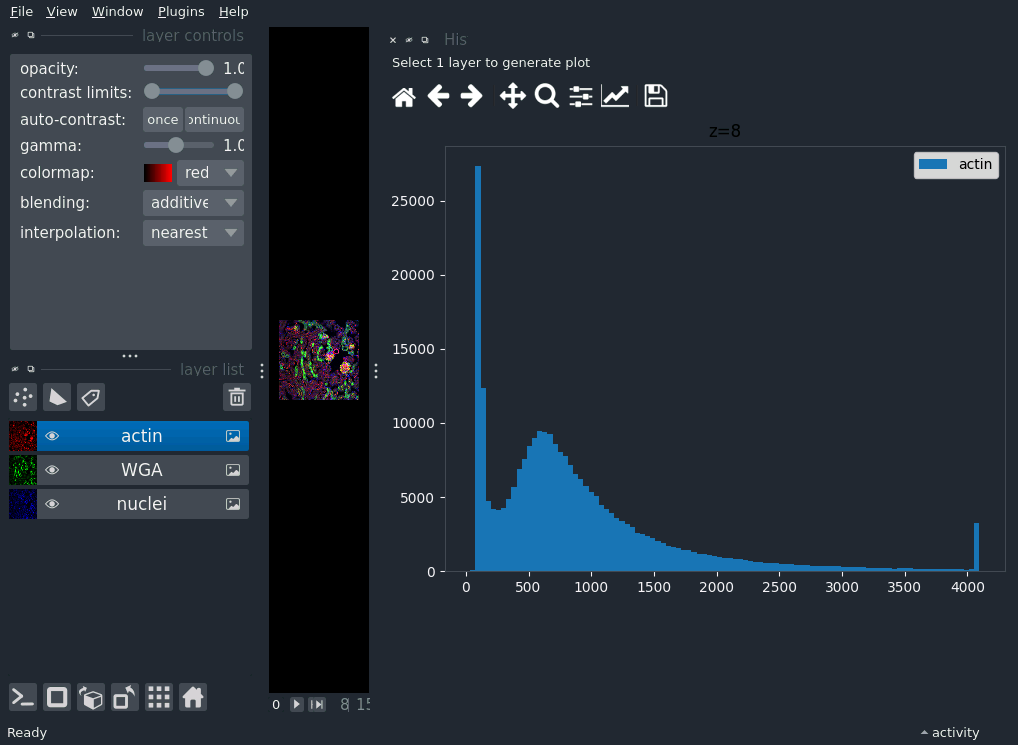
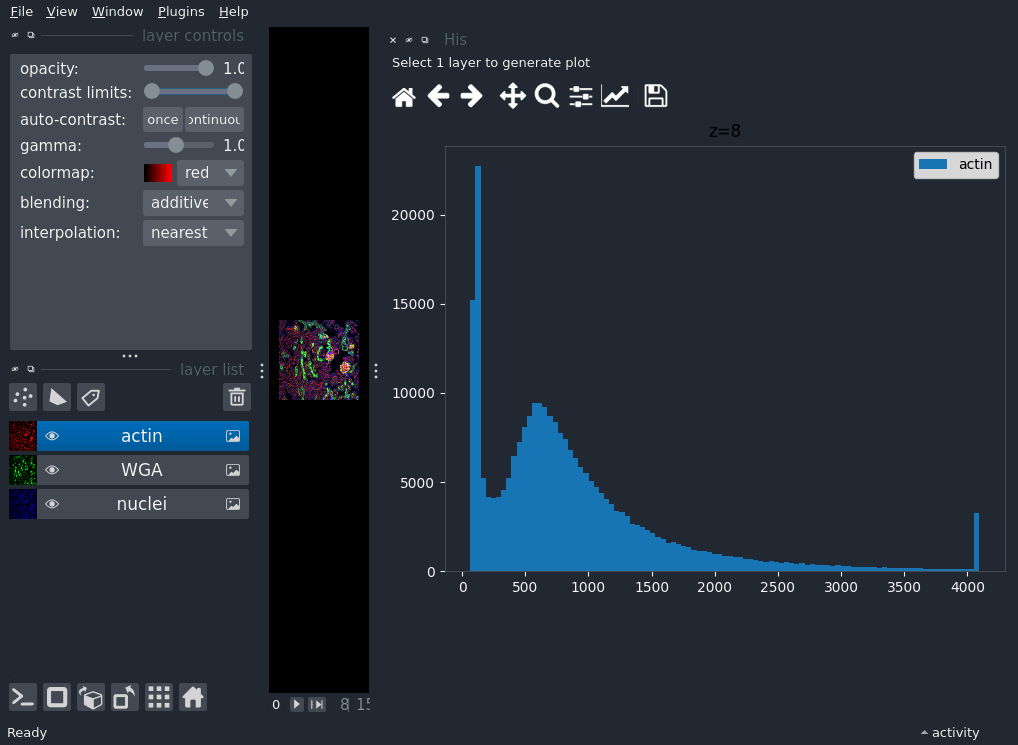
Deploying to gh-pages from @ matplotlib/napari-matplotlib@6d9310cab50b567a6bfb436e2d66e8325292617e 🚀

diff --git a/searchindex.js b/searchindex.js
@@ -1,1 +1,1 @@
-Search.setIndex({docnames:["api","api/napari_matplotlib.FeaturesScatterWidget","api/napari_matplotlib.HistogramWidget","api/napari_matplotlib.ScatterBaseWidget","api/napari_matplotlib.ScatterWidget","api/napari_matplotlib.SliceWidget","api/napari_matplotlib.base.BaseNapariMPLWidget","api/napari_matplotlib.base.NapariMPLWidget","api/napari_matplotlib.base.SingleAxesWidget","auto_examples/features_scatter","auto_examples/histogram","auto_examples/index","auto_examples/scatter","auto_examples/sg_execution_times","auto_examples/slice","changelog","index","third_party","user_guide"],envversion:{"sphinx.domains.c":2,"sphinx.domains.changeset":1,"sphinx.domains.citation":1,"sphinx.domains.cpp":5,"sphinx.domains.index":1,"sphinx.domains.javascript":2,"sphinx.domains.math":2,"sphinx.domains.python":3,"sphinx.domains.rst":2,"sphinx.domains.std":2,"sphinx.ext.intersphinx":1,sphinx:56},filenames:["api.rst","api/napari_matplotlib.FeaturesScatterWidget.rst","api/napari_matplotlib.HistogramWidget.rst","api/napari_matplotlib.ScatterBaseWidget.rst","api/napari_matplotlib.ScatterWidget.rst","api/napari_matplotlib.SliceWidget.rst","api/napari_matplotlib.base.BaseNapariMPLWidget.rst","api/napari_matplotlib.base.NapariMPLWidget.rst","api/napari_matplotlib.base.SingleAxesWidget.rst","auto_examples/features_scatter.rst","auto_examples/histogram.rst","auto_examples/index.rst","auto_examples/scatter.rst","auto_examples/sg_execution_times.rst","auto_examples/slice.rst","changelog.rst","index.rst","third_party.rst","user_guide.rst"],objects:{"":[[0,0,0,"-","napari_matplotlib"]],"napari_matplotlib.FeaturesScatterWidget":[[1,2,1,"","draw"],[1,3,1,"","input_layer_types"],[1,3,1,"","n_layers_input"],[1,2,1,"","on_update_layers"],[1,3,1,"","x_axis_key"],[1,3,1,"","y_axis_key"]],"napari_matplotlib.HistogramWidget":[[2,2,1,"","draw"],[2,3,1,"","input_layer_types"],[2,3,1,"","n_layers_input"]],"napari_matplotlib.ScatterBaseWidget":[[3,2,1,"","draw"]],"napari_matplotlib.ScatterWidget":[[4,3,1,"","input_layer_types"],[4,3,1,"","n_layers_input"]],"napari_matplotlib.SliceWidget":[[5,3,1,"","current_dim"],[5,3,1,"","current_dim_index"],[5,2,1,"","draw"],[5,3,1,"","input_layer_types"],[5,3,1,"","n_layers_input"]],"napari_matplotlib.base":[[6,1,1,"","BaseNapariMPLWidget"],[7,1,1,"","NapariMPLWidget"],[8,1,1,"","SingleAxesWidget"]],"napari_matplotlib.base.BaseNapariMPLWidget":[[6,2,1,"","add_single_axes"],[6,3,1,"","figure"],[6,3,1,"","mpl_style_sheet_path"]],"napari_matplotlib.base.NapariMPLWidget":[[7,2,1,"","clear"],[7,3,1,"","current_z"],[7,2,1,"","draw"],[7,3,1,"","input_layer_types"],[7,3,1,"","n_layers_input"],[7,3,1,"","n_selected_layers"],[7,2,1,"","on_update_layers"]],"napari_matplotlib.base.SingleAxesWidget":[[8,2,1,"","clear"]],napari_matplotlib:[[1,1,1,"","FeaturesScatterWidget"],[2,1,1,"","HistogramWidget"],[3,1,1,"","ScatterBaseWidget"],[4,1,1,"","ScatterWidget"],[5,1,1,"","SliceWidget"],[0,0,0,"-","base"]]},objnames:{"0":["py","module","Python module"],"1":["py","class","Python class"],"2":["py","method","Python method"],"3":["py","attribute","Python attribute"]},objtypes:{"0":"py:module","1":"py:class","2":"py:method","3":"py:attribute"},terms:{"0":[9,10,12,13,14],"00":13,"01":13,"02":13,"034":[13,14],"06":13,"1":[1,2,5,9,10,14],"10":9,"100":9,"11":13,"17":15,"18":15,"189":[10,13],"1d":[5,11,13,16,18],"2":[4,9],"20":9,"21":12,"236":[9,13],"2cdc5ce89b334d28f06a58c9f0ca21aa6992a5ba":12,"2d":[4,15,18],"306":13,"4":15,"50":9,"500":4,"6":12,"70":9,"848":[12,13],"class":[1,2,3,4,5,6,7,8,17],"default":[15,17],"do":17,"import":[9,10,12,14,15,17],"new":17,"short":17,"super":17,"switch":18,A:[6,16],As:[16,18],By:17,If:[4,15,17],In:[7,8],It:6,The:[6,7,15,17,18],These:18,To:[7,18],__init__:17,__main__:[9,10,12,14],__name__:[9,10,12,14],access:[6,17],ad:[15,17],add:[6,17],add_label:9,add_plugin_dock_widget:[9,10,12,14],add_point:9,add_single_ax:[6,17],addit:[7,8,17],addwidget:17,advantag:7,affect:15,against:[3,18],all:11,along:5,alongsid:17,also:[6,7,17],an:[6,15,16,18],ani:[6,7,15,17],annot:15,api:15,ar:[4,6,7,15,17,18],area:9,associ:[6,15],attribut:[1,2,4,5,6,7,17,18],auto_exampl:13,auto_examples_jupyt:11,auto_examples_python:11,automat:[7,17],avail:18,avoid:4,ax:[2,5,6,7,8,15,17],axi:[1,15],background:15,base:[1,2,3,4,5,6,7,8,15,17],basenaparimplwidget:[0,7],becaus:6,been:15,both:[6,7],bottom:18,cach:12,call:[1,7,17,18],callback:[7,8],can:[7,15,17,18],canva:[6,7,15],categori:18,chang:[1,7,17],child:6,clear:[2,5,7,8,17],code:[9,10,11,12,14,15],colour:15,com:12,complet:15,comput:18,configur:18,contain:[6,7,15,18],creat:[6,7,9],current:[1,2,3,5,7,18],current_dim:5,current_dim_index:5,current_z:7,custom:[15,17,18],customis:[6,15,17],data:[1,4,9,12,18],dataset:3,def:17,deriv:7,design:[16,17,18],desir:18,develop:17,differ:[6,16,18],dimens:5,directli:[0,18],directori:18,displai:[2,4],document:[0,1,2,3,4,5,6,7,8],doe:15,down:18,download:[9,10,11,12,14],draw:[1,2,3,5,7,17],drawn:7,drop:18,dtype:9,e:7,each:[3,15,16,18],either:17,element:17,end:[9,10,12,14],exampl:[9,10,11,12,14,16,17,18],execut:13,featur:[1,11,13],feature_0:9,feature_1:9,feature_2:9,feature_table_1:9,features_scatt:[9,13],featuresscatt:9,featuresscatterwidget:0,figur:[6,7,15,17,18],figurecanva:6,file:[12,13],fluoresc:12,follow:17,found:[17,18],from:[1,9,12,16,17],full:[9,10,12,14],funciton:15,futur:15,g:7,galleri:[9,10,12,14],gener:[9,10,11,12,14,16,18],get_configdir:18,gitlab:12,given:5,go:[9,10,12,14,17],guid:15,ha:[15,18],hand:18,handl:7,have:15,help:[6,7],here:17,histogram:[0,2,4,11,13,15,16,18],histogramwidget:[0,16,18],home:12,how:15,http:12,icon:15,imag:[2,4,5,9,12,16,18],implement:[6,7,15],index:[5,9],indic:15,individu:18,inform:15,inherit:17,input:[1,2,4,5,7,17],input_layer_typ:[1,2,4,5,7,17],insid:17,instead:[4,15],integ:15,intend:[7,15],interact:0,interest:15,interfac:0,intern:0,interv:[1,2,4,5,7],ipynb:[9,10,12,14],issu:15,jupyt:[9,10,11,12,14,15],just:[0,15],kei:1,kidnei:[10,12,14],label:[1,9,15],label_imag:9,larg:18,later:6,layer:[1,2,3,4,5,6,7,15,16],layout:[6,17],leav:15,left:18,line:[15,18],list:[7,18],locat:[15,18],lognorm:15,longer:15,maco:15,mai:6,main:[6,7,17],make:9,mani:[4,15],map:[16,18],match:[6,17],matplotlib:[0,6,7,9,10,12,14,15,17,18],maximum:15,mb:13,mean:17,measur:9,menu:18,method:[1,2,3,5,6,7,8,17],minut:[9,10,12,14],more:[4,15,16,18],most:0,move:15,mpl_style_sheet_path:6,mplstyle:18,mplwidget:15,myplugin:17,n_layers_input:[1,2,4,5,7,17],n_point:9,n_selected_lay:7,napari:[0,1,2,3,4,5,6,7,8,9,10,12,14,15,18],napari_matplotlib:[1,2,3,4,5,6,7,8,17],napari_view:[1,2,3,4,5,6,7,8,17],naparimplwidget:[0,6,8,15,17],ndarrai:9,need:[0,15],none:[1,2,3,4,5,6,7,8,17],normal:15,notebook:[9,10,11,12,14,15],noth:17,now:15,np:9,npt:9,number:[1,2,4,5,7,16,18],numpi:9,on_update_lay:[1,7,15,17],one:[16,18],onli:15,op:7,open:[15,18],open_sampl:[10,12,14],option:[1,2,3,4,5,6,7,8,15],other:[3,18],overrid:[7,17],overriden:17,parent:[1,2,3,4,5,6,7,8,17],path:6,perimet:9,philosophi:15,pin:15,pleas:15,plot:[0,4,5,11,13,15,16,17],plot_widget:17,plugin:[16,18],plugin_nam:[9,10,12,14],point:[1,4,9,18],points_data:9,points_featur:9,previous:7,privat:15,properti:[9,17],provid:[16,17],put:18,py:[9,10,12,13,14],pyqt5:[0,1,2,3,4,5,6,7,8],python:[9,10,11,12,14],qobject:0,qpaintdevic:0,qtcore:0,qtgui:0,qtpy:17,qtwidget:[0,1,2,3,4,5,6,7,8,17],qwidget:[0,1,2,3,4,5,6,7,8,17],random:9,raw:12,re:[7,17],readi:17,recommend:17,regionprops_t:9,remov:15,render:15,replac:15,requir:18,respect:15,respons:6,run:[9,10,12,14],runner:12,s:[17,18],same:15,save:[6,18],scale:15,scatter:[0,1,3,4,11,13,15,18],scatterbasewidget:[0,1,4],scatterwidget:0,scikit:12,script:[9,10,12,14],second:[9,10,12,14],section:0,see:15,select:[1,2,3,5,7,15,17,18],self:[1,17],set:[6,8,15,17],setup:17,shape:[1,4],sheet:[6,15,18],should:7,shouldn:0,side:18,similarli:4,simplewrapp:0,sinc:15,singl:[6,8,17,18],singleaxeswidget:[0,2,3,5],sip:0,size:15,skimag:9,slice:[0,2,5,11,13,15,18],slicewidget:0,someth:[15,17],sourc:[9,10,11,12,14],space:15,specifi:17,sphinx:[9,10,11,12,14],split:18,step:[7,17],still:15,store:[1,18],style:[6,15,18],sub:7,subplot:6,summari:[1,2,3,4,5,6,7,8],t:0,tabl:18,take:7,taken:[1,2,4,5,7,17],test:[9,15],text:15,than:4,theme:[6,15,17],thi:[0,6,7,8,15,16,17,18],though:0,throughout:15,tick:15,tif:12,time:[9,10,12,14],tissu:12,too:4,toolbar:[6,7,15,17],total:[9,10,12,13,14],track:1,transpar:15,tupl:[1,2,4,5,7],turn:17,two:[1,3,4,18],type:[1,2,4,5,7,9,15],uint16:9,under:18,underscor:15,up:[8,17],updat:7,update_lay:[1,15],us:[7,15,16,17,18],user:[0,15],valid:7,vari:18,variabl:17,vector:1,version:15,viewer:[1,2,3,4,5,6,7,8,9,10,12,14,15,17],visual:6,wai:17,want:6,when:[1,7,15,17],which:[6,7,17],widget:[1,3,6,7,9,15,16,17,18],widget_nam:[9,10,12,14],window:[6,9,10,12,14,15,17,18],within:17,without:[15,17],work:[6,7,15],would:15,wrapper:0,x:[1,15],x_axis_kei:1,y:1,y_axis_kei:1,yet:15,you:[15,17],your:17,z:[7,17],zero:9,zip:11},titles:["API reference","FeaturesScatterWidget","HistogramWidget","ScatterBaseWidget","ScatterWidget","SliceWidget","BaseNapariMPLWidget","NapariMPLWidget","SingleAxesWidget","Scattering features","Histograms","Gallery","Scatter plots","Computation times","1D slices","Changelog","napari-matplotlib","Third-party plugins","User guide"],titleterms:{"0":15,"1":15,"1d":14,"class":0,"new":15,api:0,base:0,basenaparimplwidget:6,bug:15,chang:15,changelog:15,comput:13,customis:18,diagram:0,featur:[9,15,18],featuresscatterwidget:1,fix:15,galleri:11,guid:18,histogram:10,histogramwidget:2,improv:15,inherit:0,layer:[17,18],matplotlib:16,modul:0,napari:[16,17],napari_matplotlib:0,naparimplwidget:7,number:17,other:15,overview:18,packag:0,parti:17,plot:[12,18],plugin:17,refer:0,scatter:[9,12],scatterbasewidget:3,scatterwidget:4,singleaxeswidget:8,slice:14,slicewidget:5,third:17,time:13,type:17,user:18,valid:17,visual:15,work:17}})
+Search.setIndex({docnames:["api","api/napari_matplotlib.FeaturesScatterWidget","api/napari_matplotlib.HistogramWidget","api/napari_matplotlib.ScatterBaseWidget","api/napari_matplotlib.ScatterWidget","api/napari_matplotlib.SliceWidget","api/napari_matplotlib.base.BaseNapariMPLWidget","api/napari_matplotlib.base.NapariMPLWidget","api/napari_matplotlib.base.SingleAxesWidget","auto_examples/features_scatter","auto_examples/histogram","auto_examples/index","auto_examples/scatter","auto_examples/sg_execution_times","auto_examples/slice","changelog","index","third_party","user_guide"],envversion:{"sphinx.domains.c":2,"sphinx.domains.changeset":1,"sphinx.domains.citation":1,"sphinx.domains.cpp":5,"sphinx.domains.index":1,"sphinx.domains.javascript":2,"sphinx.domains.math":2,"sphinx.domains.python":3,"sphinx.domains.rst":2,"sphinx.domains.std":2,"sphinx.ext.intersphinx":1,sphinx:56},filenames:["api.rst","api/napari_matplotlib.FeaturesScatterWidget.rst","api/napari_matplotlib.HistogramWidget.rst","api/napari_matplotlib.ScatterBaseWidget.rst","api/napari_matplotlib.ScatterWidget.rst","api/napari_matplotlib.SliceWidget.rst","api/napari_matplotlib.base.BaseNapariMPLWidget.rst","api/napari_matplotlib.base.NapariMPLWidget.rst","api/napari_matplotlib.base.SingleAxesWidget.rst","auto_examples/features_scatter.rst","auto_examples/histogram.rst","auto_examples/index.rst","auto_examples/scatter.rst","auto_examples/sg_execution_times.rst","auto_examples/slice.rst","changelog.rst","index.rst","third_party.rst","user_guide.rst"],objects:{"":[[0,0,0,"-","napari_matplotlib"]],"napari_matplotlib.FeaturesScatterWidget":[[1,2,1,"","draw"],[1,3,1,"","input_layer_types"],[1,3,1,"","n_layers_input"],[1,2,1,"","on_update_layers"],[1,3,1,"","x_axis_key"],[1,3,1,"","y_axis_key"]],"napari_matplotlib.HistogramWidget":[[2,2,1,"","draw"],[2,3,1,"","input_layer_types"],[2,3,1,"","n_layers_input"]],"napari_matplotlib.ScatterBaseWidget":[[3,2,1,"","draw"]],"napari_matplotlib.ScatterWidget":[[4,3,1,"","input_layer_types"],[4,3,1,"","n_layers_input"]],"napari_matplotlib.SliceWidget":[[5,3,1,"","current_dim"],[5,3,1,"","current_dim_index"],[5,2,1,"","draw"],[5,3,1,"","input_layer_types"],[5,3,1,"","n_layers_input"]],"napari_matplotlib.base":[[6,1,1,"","BaseNapariMPLWidget"],[7,1,1,"","NapariMPLWidget"],[8,1,1,"","SingleAxesWidget"]],"napari_matplotlib.base.BaseNapariMPLWidget":[[6,2,1,"","add_single_axes"],[6,3,1,"","figure"],[6,3,1,"","mpl_style_sheet_path"]],"napari_matplotlib.base.NapariMPLWidget":[[7,2,1,"","clear"],[7,3,1,"","current_z"],[7,2,1,"","draw"],[7,3,1,"","input_layer_types"],[7,3,1,"","n_layers_input"],[7,3,1,"","n_selected_layers"],[7,2,1,"","on_update_layers"]],"napari_matplotlib.base.SingleAxesWidget":[[8,2,1,"","clear"]],napari_matplotlib:[[1,1,1,"","FeaturesScatterWidget"],[2,1,1,"","HistogramWidget"],[3,1,1,"","ScatterBaseWidget"],[4,1,1,"","ScatterWidget"],[5,1,1,"","SliceWidget"],[0,0,0,"-","base"]]},objnames:{"0":["py","module","Python module"],"1":["py","class","Python class"],"2":["py","method","Python method"],"3":["py","attribute","Python attribute"]},objtypes:{"0":"py:module","1":"py:class","2":"py:method","3":"py:attribute"},terms:{"0":[9,10,12,13,14],"00":13,"01":13,"02":13,"07":13,"079":[12,13],"087":[13,14],"1":[1,2,5,9,10,14],"10":9,"100":9,"11":13,"17":15,"18":15,"1d":[5,11,13,16,18],"2":[4,9],"20":9,"21":12,"225":[10,13],"2cdc5ce89b334d28f06a58c9f0ca21aa6992a5ba":12,"2d":[4,15,18],"349":[9,13],"4":15,"50":9,"500":4,"7":12,"70":9,"740":13,"class":[1,2,3,4,5,6,7,8,17],"default":[15,17],"do":17,"import":[9,10,12,14,15,17],"new":17,"short":17,"super":17,"switch":18,A:[6,15,16],As:[16,18],By:17,If:[4,15,17],In:[7,8],It:6,The:[6,7,15,17,18],These:18,To:[7,18],__init__:17,__main__:[9,10,12,14],__name__:[9,10,12,14],abov:15,access:[6,17],ad:[15,17],add:[6,17],add_label:9,add_plugin_dock_widget:[9,10,12,14],add_point:9,add_single_ax:[6,17],addit:[7,8,17],addwidget:17,advantag:7,affect:15,against:[3,18],all:11,along:5,alongsid:17,also:[6,7,17],an:[6,15,16,18],ani:[6,7,15,17],annot:15,api:15,ar:[4,6,7,15,17,18],area:9,associ:[6,15],attribut:[1,2,4,5,6,7,17,18],auto_exampl:13,auto_examples_jupyt:11,auto_examples_python:11,automat:[7,17],avail:18,avoid:4,ax:[2,5,6,7,8,15,17],axi:[1,15],background:15,base:[1,2,3,4,5,6,7,8,15,17],basenaparimplwidget:[0,7],becaus:6,been:15,being:15,bin:15,both:[6,7],bottom:18,cach:12,caclualt:15,call:[1,7,17,18],callback:[7,8],can:[7,15,17,18],canva:[6,7,15],categori:18,chang:[1,7,17],child:6,clear:[2,5,7,8,17],code:[9,10,11,12,14,15],colour:15,com:12,compat:15,complet:15,comput:18,configur:18,contain:[6,7,15,18],creat:[6,7,9],current:[1,2,3,5,7,15,18],current_dim:5,current_dim_index:5,current_z:7,custom:[15,17,18],customis:[6,15,17],data:[1,4,9,12,18],dataset:[3,15],def:17,deriv:7,design:[16,17,18],desir:18,develop:17,differ:[6,16,18],dimens:5,directli:[0,18],directori:18,displai:[2,4],document:[0,1,2,3,4,5,6,7,8],doe:15,down:18,download:[9,10,11,12,14],draw:[1,2,3,5,7,17],drawn:7,drop:18,dtype:9,e:7,each:[3,15,16,18],either:17,element:17,end:[9,10,12,14],exampl:[9,10,11,12,14,16,17,18],execut:13,featur:[1,11,13],feature_0:9,feature_1:9,feature_2:9,feature_table_1:9,features_scatt:[9,13],featuresscatt:9,featuresscatterwidget:0,figur:[6,7,15,17,18],figurecanva:6,file:[12,13],fluoresc:12,follow:17,found:[17,18],from:[1,9,12,15,16,17],full:[9,10,12,14,15],funciton:15,futur:15,g:7,galleri:[9,10,12,14],gener:[9,10,11,12,14,16,18],get_configdir:18,gitlab:12,given:5,go:[9,10,12,14,17],guid:15,ha:[15,18],hand:18,handl:7,have:15,help:[6,7],here:17,histogram:[0,2,4,11,13,15,16,18],histogramwidget:[0,15,16,18],home:12,how:15,http:12,icon:15,imag:[2,4,5,9,12,16,18],implement:[6,7,15],index:[5,9],indic:15,individu:18,inform:15,inherit:17,input:[1,2,4,5,7,17],input_layer_typ:[1,2,4,5,7,17],insid:17,instead:[4,15],integ:15,intend:[7,15],interact:0,interest:15,interfac:0,intern:0,interv:[1,2,4,5,7],ipynb:[9,10,12,14],issu:15,jupyt:[9,10,11,12,14,15],just:[0,15],kei:1,kidnei:[10,12,14],label:[1,9,15],label_imag:9,larg:18,later:6,layer:[1,2,3,4,5,6,7,15,16],layout:[6,17],leav:15,left:18,limit:15,line:[15,18],list:[7,18],load:15,locat:[15,18],lognorm:15,longer:15,maco:15,mai:6,main:[6,7,17],make:9,mani:[4,15],map:[16,18],match:[6,17],matplotlib:[0,6,7,9,10,12,14,15,17,18],maximum:15,mb:13,mean:17,measur:9,memori:15,menu:18,method:[1,2,3,5,6,7,8,17],minut:[9,10,12,14],more:[4,15,16,18],most:0,move:15,mpl_style_sheet_path:6,mplstyle:18,mplwidget:15,myplugin:17,n_layers_input:[1,2,4,5,7,17],n_point:9,n_selected_lay:7,napari:[0,1,2,3,4,5,6,7,8,9,10,12,14,15,18],napari_matplotlib:[1,2,3,4,5,6,7,8,17],napari_view:[1,2,3,4,5,6,7,8,17],naparimplwidget:[0,6,8,15,17],ndarrai:9,need:[0,15],none:[1,2,3,4,5,6,7,8,17],normal:15,notebook:[9,10,11,12,14,15],noth:17,now:15,np:9,npt:9,number:[1,2,4,5,7,16,18],numpi:9,on_update_lay:[1,7,15,17],one:[16,18],onli:15,op:7,open:[15,18],open_sampl:[10,12,14],option:[1,2,3,4,5,6,7,8,15],other:[3,18],overrid:[7,17],overriden:17,parent:[1,2,3,4,5,6,7,8,17],path:6,perimet:9,philosophi:15,pin:15,pleas:15,plot:[0,4,5,11,13,15,16,17],plot_widget:17,plugin:[16,18],plugin_nam:[9,10,12,14],point:[1,4,9,18],points_data:9,points_featur:9,previous:7,privat:15,properti:[9,17],provid:[16,17],put:18,py:[9,10,12,13,14],pyqt5:[0,1,2,3,4,5,6,7,8],python:[9,10,11,12,14],qobject:0,qpaintdevic:0,qtcore:0,qtgui:0,qtpy:17,qtwidget:[0,1,2,3,4,5,6,7,8,17],qwidget:[0,1,2,3,4,5,6,7,8,17],random:9,raw:12,re:[7,17],read:15,readi:17,recommend:17,regionprops_t:9,remov:15,render:15,replac:15,requir:18,respect:15,respons:6,result:15,run:[9,10,12,14],runner:12,s:[17,18],same:15,save:[6,18],scale:15,scatter:[0,1,3,4,11,13,15,18],scatterbasewidget:[0,1,4],scatterwidget:0,scikit:12,script:[9,10,12,14],second:[9,10,12,14],section:0,see:15,select:[1,2,3,5,7,15,17,18],self:[1,17],set:[6,8,15,17],setup:17,shape:[1,4],sheet:[6,15,18],should:7,shouldn:0,side:18,similarli:4,simplewrapp:0,sinc:15,singl:[6,8,17,18],singleaxeswidget:[0,2,3,5],sip:0,size:15,skimag:9,slice:[0,2,5,11,13,15,18],slicewidget:0,someth:[15,17],sourc:[9,10,11,12,14],space:15,specifi:17,sphinx:[9,10,11,12,14],split:18,step:[7,17],still:15,store:[1,18],style:[6,15,18],sub:7,subplot:6,summari:[1,2,3,4,5,6,7,8],t:0,tabl:18,take:7,taken:[1,2,4,5,7,17],test:[9,15],text:15,than:4,theme:[6,15,17],thi:[0,6,7,8,15,16,17,18],though:0,throughout:15,tick:15,tif:12,time:[9,10,12,14],tissu:12,too:4,toolbar:[6,7,15,17],total:[9,10,12,13,14],track:1,transpar:15,tupl:[1,2,4,5,7],turn:17,two:[1,3,4,18],type:[1,2,4,5,7,9,15],uint16:9,under:18,underscor:15,up:[8,17],updat:7,update_lay:[1,15],us:[7,15,16,17,18],user:[0,15],valid:7,vari:18,variabl:17,vector:1,version:15,viewer:[1,2,3,4,5,6,7,8,9,10,12,14,15,17],visual:6,wai:17,want:6,when:[1,7,15,17],which:[6,7,17],whole:15,widget:[1,3,6,7,9,15,16,17,18],widget_nam:[9,10,12,14],window:[6,9,10,12,14,15,17,18],within:17,without:[15,17],work:[6,7,15],would:15,wrapper:0,x:[1,15],x_axis_kei:1,y:1,y_axis_kei:1,yet:15,you:[15,17],your:17,z:[7,17],zero:9,zip:11},titles:["API reference","FeaturesScatterWidget","HistogramWidget","ScatterBaseWidget","ScatterWidget","SliceWidget","BaseNapariMPLWidget","NapariMPLWidget","SingleAxesWidget","Scattering features","Histograms","Gallery","Scatter plots","Computation times","1D slices","Changelog","napari-matplotlib","Third-party plugins","User guide"],titleterms:{"0":15,"1":15,"1d":14,"2":15,"class":0,"new":15,api:0,base:0,basenaparimplwidget:6,bug:15,chang:15,changelog:15,comput:13,customis:18,diagram:0,featur:[9,15,18],featuresscatterwidget:1,fix:15,galleri:11,guid:18,histogram:10,histogramwidget:2,improv:15,inherit:0,layer:[17,18],matplotlib:16,modul:0,napari:[16,17],napari_matplotlib:0,naparimplwidget:7,number:17,other:15,overview:18,packag:0,parti:17,plot:[12,18],plugin:17,refer:0,scatter:[9,12],scatterbasewidget:3,scatterwidget:4,singleaxeswidget:8,slice:14,slicewidget:5,third:17,time:13,type:17,user:18,valid:17,visual:15,work:17}})

diff --git a/changelog.html b/changelog.html
@@ -390,17 +390,35 @@ document.write(`
   <section id="changelog">
 <h1>Changelog<a class="headerlink" href="#changelog" title="Permalink to this headline">#</a></h1>
 <section id="id1">
-<h2>1.0.1<a class="headerlink" href="#id1" title="Permalink to this headline">#</a></h2>
+<h2>1.0.2<a class="headerlink" href="#id1" title="Permalink to this headline">#</a></h2>
 <section id="bug-fixes">
 <h3>Bug fixes<a class="headerlink" href="#bug-fixes" title="Permalink to this headline">#</a></h3>
+<ul class="simple">
+<li><p>A full dataset is no longer read into memory when using <code class="docutils literal notranslate"><span class="pre">HistogramWidget</span></code>.
+Only the current slice is loaded.</p></li>
+<li><p>Fixed compatibility with napari 0.4.18.</p></li>
+</ul>
+</section>
+<section id="changes">
+<h3>Changes<a class="headerlink" href="#changes" title="Permalink to this headline">#</a></h3>
+<ul class="simple">
+<li><p>Histogram bin limits are now caclualted from the slice being histogrammed, and
+not the whole dataset. This is as a result of the above bug fix.</p></li>
+</ul>
+</section>
+</section>
+<section id="id2">
+<h2>1.0.1<a class="headerlink" href="#id2" title="Permalink to this headline">#</a></h2>
+<section id="id3">
+<h3>Bug fixes<a class="headerlink" href="#id3" title="Permalink to this headline">#</a></h3>
 <ul class="simple">
 <li><p>Pinned that maximum version of <a class="reference external" href="https://napari.org/api/napari.html#module-napari" title="(in napari vdev)"><code class="xref py py-obj docutils literal notranslate"><span class="pre">napari</span></code></a> to 0.4.17, since <code class="docutils literal notranslate"><span class="pre">napari-matplotlib</span></code>
 does not yet work with <code class="docutils literal notranslate"><span class="pre">napari</span></code> 0.4.18.</p></li>
 </ul>
 </section>
 </section>
-<section id="id2">
-<h2>1.0.0<a class="headerlink" href="#id2" title="Permalink to this headline">#</a></h2>
+<section id="id4">
+<h2>1.0.0<a class="headerlink" href="#id4" title="Permalink to this headline">#</a></h2>
 <section id="new-features">
 <h3>New features<a class="headerlink" href="#new-features" title="Permalink to this headline">#</a></h3>
 <ul class="simple">
@@ -419,8 +437,8 @@ for the widget to plot something.</p></li>
 for more information.</p></li>
 </ul>
 </section>
-<section id="changes">
-<h3>Changes<a class="headerlink" href="#changes" title="Permalink to this headline">#</a></h3>
+<section id="id5">
+<h3>Changes<a class="headerlink" href="#id5" title="Permalink to this headline">#</a></h3>
 <ul class="simple">
 <li><p>The scatter widgets no longer use a LogNorm() for 2D histogram scaling.
 This is to move the widget in line with the philosophy of using Matplotlib default
@@ -435,8 +453,8 @@ funcitonality when layer selection is changed.</p></li>
 <li><p>The slice widget now only plots x-ticks at integer locations.</p></li>
 </ul>
 </section>
-<section id="id3">
-<h3>Bug fixes<a class="headerlink" href="#id3" title="Permalink to this headline">#</a></h3>
+<section id="id6">
+<h3>Bug fixes<a class="headerlink" href="#id6" title="Permalink to this headline">#</a></h3>
 <ul class="simple">
 <li><p>Importing <code class="docutils literal notranslate"><span class="pre">napari-matplotlib</span></code> no longer affects how plots are rendered in
 Jupyter notebooks.</p></li>
@@ -490,15 +508,20 @@ Jupyter notebooks.</p></li>
   </div>
   <nav class="bd-toc-nav page-toc">
     <ul class="visible nav section-nav flex-column">
-<li class="toc-h2 nav-item toc-entry"><a class="reference internal nav-link" href="#id1">1.0.1</a><ul class="nav section-nav flex-column">
+<li class="toc-h2 nav-item toc-entry"><a class="reference internal nav-link" href="#id1">1.0.2</a><ul class="nav section-nav flex-column">
 <li class="toc-h3 nav-item toc-entry"><a class="reference internal nav-link" href="#bug-fixes">Bug fixes</a></li>
+<li class="toc-h3 nav-item toc-entry"><a class="reference internal nav-link" href="#changes">Changes</a></li>
 </ul>
 </li>
-<li class="toc-h2 nav-item toc-entry"><a class="reference internal nav-link" href="#id2">1.0.0</a><ul class="nav section-nav flex-column">
+<li class="toc-h2 nav-item toc-entry"><a class="reference internal nav-link" href="#id2">1.0.1</a><ul class="nav section-nav flex-column">
+<li class="toc-h3 nav-item toc-entry"><a class="reference internal nav-link" href="#id3">Bug fixes</a></li>
+</ul>
+</li>
+<li class="toc-h2 nav-item toc-entry"><a class="reference internal nav-link" href="#id4">1.0.0</a><ul class="nav section-nav flex-column">
 <li class="toc-h3 nav-item toc-entry"><a class="reference internal nav-link" href="#new-features">New features</a></li>
 <li class="toc-h3 nav-item toc-entry"><a class="reference internal nav-link" href="#visual-improvements">Visual improvements</a></li>
-<li class="toc-h3 nav-item toc-entry"><a class="reference internal nav-link" href="#changes">Changes</a></li>
-<li class="toc-h3 nav-item toc-entry"><a class="reference internal nav-link" href="#id3">Bug fixes</a></li>
+<li class="toc-h3 nav-item toc-entry"><a class="reference internal nav-link" href="#id5">Changes</a></li>
+<li class="toc-h3 nav-item toc-entry"><a class="reference internal nav-link" href="#id6">Bug fixes</a></li>
 <li class="toc-h3 nav-item toc-entry"><a class="reference internal nav-link" href="#other">Other</a></li>
 </ul>
 </li>

diff --git a/auto_examples/sg_execution_times.html b/auto_examples/sg_execution_times.html
@@ -388,7 +388,7 @@ document.write(`
                   
   <section id="computation-times">
 <span id="sphx-glr-auto-examples-sg-execution-times"></span><h1>Computation times<a class="headerlink" href="#computation-times" title="Permalink to this headline">#</a></h1>
-<p><strong>00:11.306</strong> total execution time for <strong>auto_examples</strong> files:</p>
+<p><strong>00:11.740</strong> total execution time for <strong>auto_examples</strong> files:</p>
 <table class="table">
 <colgroup>
 <col style="width: 80%" />
@@ -397,19 +397,19 @@ document.write(`
 </colgroup>
 <tbody>
 <tr class="row-odd"><td><p><a class="reference internal" href="scatter.html#sphx-glr-auto-examples-scatter-py"><span class="std std-ref">Scatter plots</span></a> (<code class="docutils literal notranslate"><span class="pre">scatter.py</span></code>)</p></td>
-<td><p>00:06.848</p></td>
+<td><p>00:07.079</p></td>
 <td><p>0.0 MB</p></td>
 </tr>
 <tr class="row-even"><td><p><a class="reference internal" href="features_scatter.html#sphx-glr-auto-examples-features-scatter-py"><span class="std std-ref">Scattering features</span></a> (<code class="docutils literal notranslate"><span class="pre">features_scatter.py</span></code>)</p></td>
-<td><p>00:02.236</p></td>
+<td><p>00:02.349</p></td>
 <td><p>0.0 MB</p></td>
 </tr>
 <tr class="row-odd"><td><p><a class="reference internal" href="histogram.html#sphx-glr-auto-examples-histogram-py"><span class="std std-ref">Histograms</span></a> (<code class="docutils literal notranslate"><span class="pre">histogram.py</span></code>)</p></td>
-<td><p>00:01.189</p></td>
+<td><p>00:01.225</p></td>
 <td><p>0.0 MB</p></td>
 </tr>
 <tr class="row-even"><td><p><a class="reference internal" href="slice.html#sphx-glr-auto-examples-slice-py"><span class="std std-ref">1D slices</span></a> (<code class="docutils literal notranslate"><span class="pre">slice.py</span></code>)</p></td>
-<td><p>00:01.034</p></td>
+<td><p>00:01.087</p></td>
 <td><p>0.0 MB</p></td>
 </tr>
 </tbody>

diff --git a/auto_examples/features_scatter.html b/auto_examples/features_scatter.html
@@ -451,7 +451,7 @@ to download the full example code</p>
     <a href="https://napari.org/api/napari.html#napari.run" title="napari.run" class="sphx-glr-backref-module-napari sphx-glr-backref-type-py-function"><span class="n">napari</span><span class="o">.</span><span class="n">run</span></a><span class="p">()</span>
 </pre></div>
 </div>
-<p class="sphx-glr-timing"><strong>Total running time of the script:</strong> ( 0 minutes  2.236 seconds)</p>
+<p class="sphx-glr-timing"><strong>Total running time of the script:</strong> ( 0 minutes  2.349 seconds)</p>
 <div class="sphx-glr-footer sphx-glr-footer-example docutils container" id="sphx-glr-download-auto-examples-features-scatter-py">
 <div class="sphx-glr-download sphx-glr-download-python docutils container">
 <p><a class="reference download internal" download="" href="../_downloads/6b03dcf9de4b8dd14bd28dfd160b22ff/features_scatter.py"><code class="xref download docutils literal notranslate"><span class="pre">Download</span> <span class="pre">Python</span> <span class="pre">source</span> <span class="pre">code:</span> <span class="pre">features_scatter.py</span></code></a></p>

diff --git a/auto_examples/histogram.html b/auto_examples/histogram.html
@@ -425,7 +425,7 @@ to download the full example code</p>
     <a href="https://napari.org/api/napari.html#napari.run" title="napari.run" class="sphx-glr-backref-module-napari sphx-glr-backref-type-py-function"><span class="n">napari</span><span class="o">.</span><span class="n">run</span></a><span class="p">()</span>
 </pre></div>
 </div>
-<p class="sphx-glr-timing"><strong>Total running time of the script:</strong> ( 0 minutes  1.189 seconds)</p>
+<p class="sphx-glr-timing"><strong>Total running time of the script:</strong> ( 0 minutes  1.225 seconds)</p>
 <div class="sphx-glr-footer sphx-glr-footer-example docutils container" id="sphx-glr-download-auto-examples-histogram-py">
 <div class="sphx-glr-download sphx-glr-download-python docutils container">
 <p><a class="reference download internal" download="" href="../_downloads/938ed72b46e9548f0937ceb494893df1/histogram.py"><code class="xref download docutils literal notranslate"><span class="pre">Download</span> <span class="pre">Python</span> <span class="pre">source</span> <span class="pre">code:</span> <span class="pre">histogram.py</span></code></a></p>

diff --git a/auto_examples/scatter.html b/auto_examples/scatter.html
@@ -431,7 +431,7 @@ to download the full example code</p>
     <a href="https://napari.org/api/napari.html#napari.run" title="napari.run" class="sphx-glr-backref-module-napari sphx-glr-backref-type-py-function"><span class="n">napari</span><span class="o">.</span><span class="n">run</span></a><span class="p">()</span>
 </pre></div>
 </div>
-<p class="sphx-glr-timing"><strong>Total running time of the script:</strong> ( 0 minutes  6.848 seconds)</p>
+<p class="sphx-glr-timing"><strong>Total running time of the script:</strong> ( 0 minutes  7.079 seconds)</p>
 <div class="sphx-glr-footer sphx-glr-footer-example docutils container" id="sphx-glr-download-auto-examples-scatter-py">
 <div class="sphx-glr-download sphx-glr-download-python docutils container">
 <p><a class="reference download internal" download="" href="../_downloads/e611938a173183173c813c6376b63c29/scatter.py"><code class="xref download docutils literal notranslate"><span class="pre">Download</span> <span class="pre">Python</span> <span class="pre">source</span> <span class="pre">code:</span> <span class="pre">scatter.py</span></code></a></p>

diff --git a/auto_examples/slice.html b/auto_examples/slice.html
@@ -425,7 +425,7 @@ to download the full example code</p>
     <a href="https://napari.org/api/napari.html#napari.run" title="napari.run" class="sphx-glr-backref-module-napari sphx-glr-backref-type-py-function"><span class="n">napari</span><span class="o">.</span><span class="n">run</span></a><span class="p">()</span>
 </pre></div>
 </div>
-<p class="sphx-glr-timing"><strong>Total running time of the script:</strong> ( 0 minutes  1.034 seconds)</p>
+<p class="sphx-glr-timing"><strong>Total running time of the script:</strong> ( 0 minutes  1.087 seconds)</p>
 <div class="sphx-glr-footer sphx-glr-footer-example docutils container" id="sphx-glr-download-auto-examples-slice-py">
 <div class="sphx-glr-download sphx-glr-download-python docutils container">
 <p><a class="reference download internal" download="" href="../_downloads/bc541a354b7f92b48ffdb8727aa73e82/slice.py"><code class="xref download docutils literal notranslate"><span class="pre">Download</span> <span class="pre">Python</span> <span class="pre">source</span> <span class="pre">code:</span> <span class="pre">slice.py</span></code></a></p>
